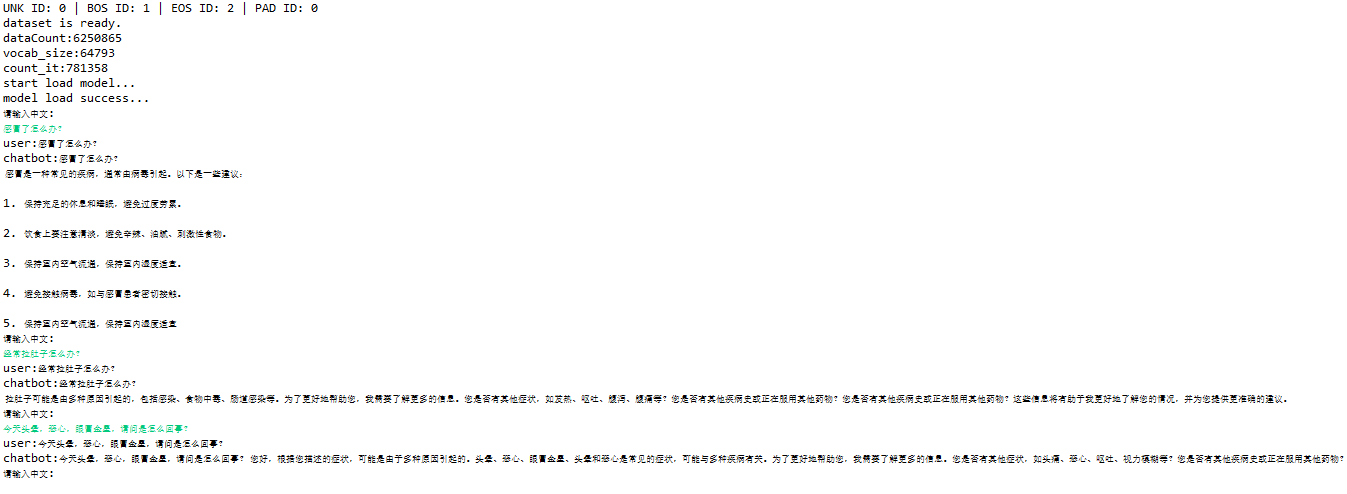
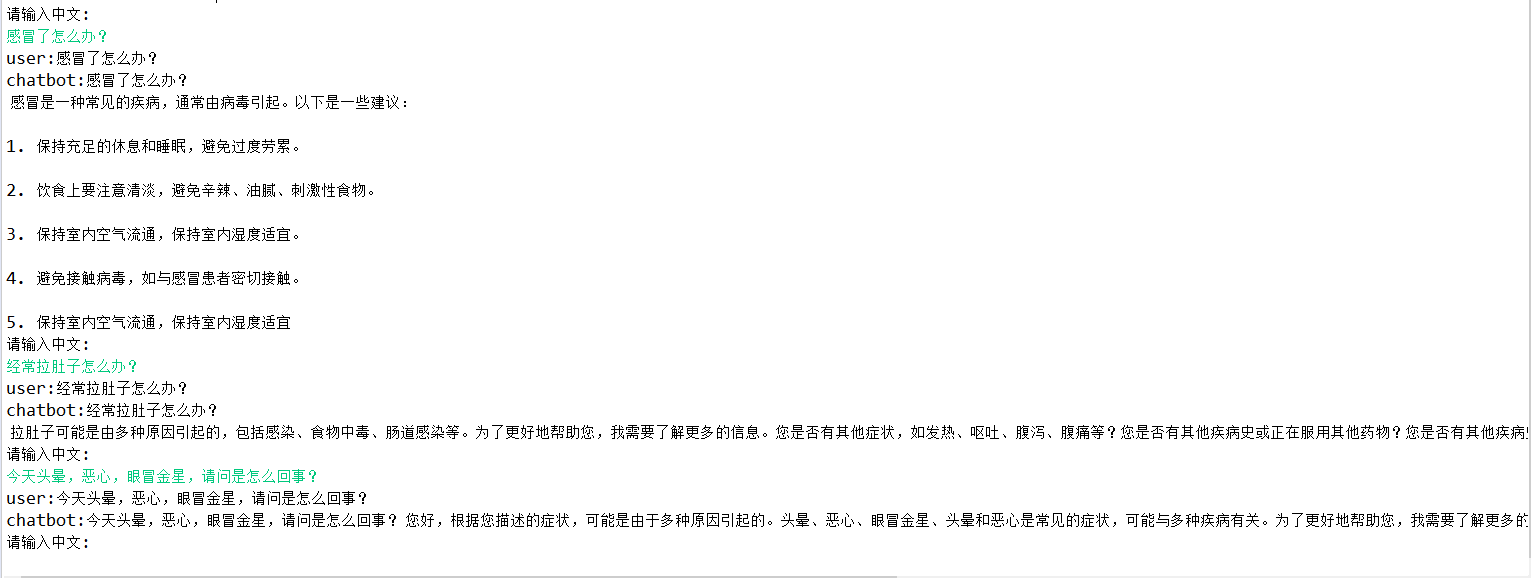
update README.md.

Changed region(s): [[0.0, 0.0, 1.0, 1.0], [0.0, 0.0, 0.2806, 0.3644], [0.0, 0.3947, 0.1871, 0.4251]]

diff --git a/README.md b/README.md
@@ -179,7 +179,7 @@ dropoutRate = 0.0f
 train_loss = 2.0f //最终训练集损失在2.0左右
 ````
 ###### 推理效果图
-![Llama2医疗问答系统](images/qa_test.png)
+![Llama2医疗问答系统](images/llama2-medical.png)
 
 ##  功能介绍
 #### 支持的网络层类型：
@@ -1277,6 +1277,41 @@ public static void gan_anime() {
 				System.out.println("chatbot:"+input_txt.split(" ")[1]);
 			}
 			scanner.close();
+		} catch (Exception e) {
+			// TODO: handle exception
+			e.printStackTrace();
+		}
+	}
+```
+
+#### llama2-医疗问答系统
+```java
+    public static void llama2_chinese_chatglm_vocab() {
+		try {
+			boolean bias = false;
+			boolean dropout = false;
+			boolean flashAttention = false;
+			int batchSize = 8;			
+			int max_len = 512;
+			int embedDim = 512;
+			int head_num = 8;
+			int decoderNum = 8;
+			String trainPath = "H:\\transformer_dataset\\wbm_idx_smallvocab.txt";
+			String tokenizer_path = "H:\\transformer_dataset\\tokenizer.model";
+			SentencePieceTokenizer tokenizer = new SentencePieceTokenizer(tokenizer_path, 64793);
+			CNWikiTokenizer4 trainData = new CNWikiTokenizer4(trainPath, max_len, batchSize, 6250865, tokenizer);
+			Llama2 network = new Llama2(LossType.softmax_with_cross_entropy_idx, UpdaterType.adamw, head_num, decoderNum, trainData.vocab_size, max_len, embedDim, bias, dropout, flashAttention);
+			network.learnRate = 3e-4f;
+			EDOptimizer optimizer = new EDOptimizer(network, batchSize, 1, 0.0001f, LearnRateUpdate.COSINE, false);
+			optimizer.lr_step = new int[] {1, 2};
+			optimizer.lr = 3e-4f;
+			optimizer.min_lr = 1e-5f;
+			optimizer.setWarmUp(true);
+			optimizer.warmUpTime = 1000;
+			optimizer.lrDecayIters = (int) (trainData.count_it * 0.96);
+			optimizer.trainLlama2_chinese(trainData);
+			String model_path = "H:\\model\\llama2-92m-chinese.model";
+			ModelUtils.saveModel(network, model_path);
 		} catch (Exception e) {
 			// TODO: handle exception
 			e.printStackTrace();
